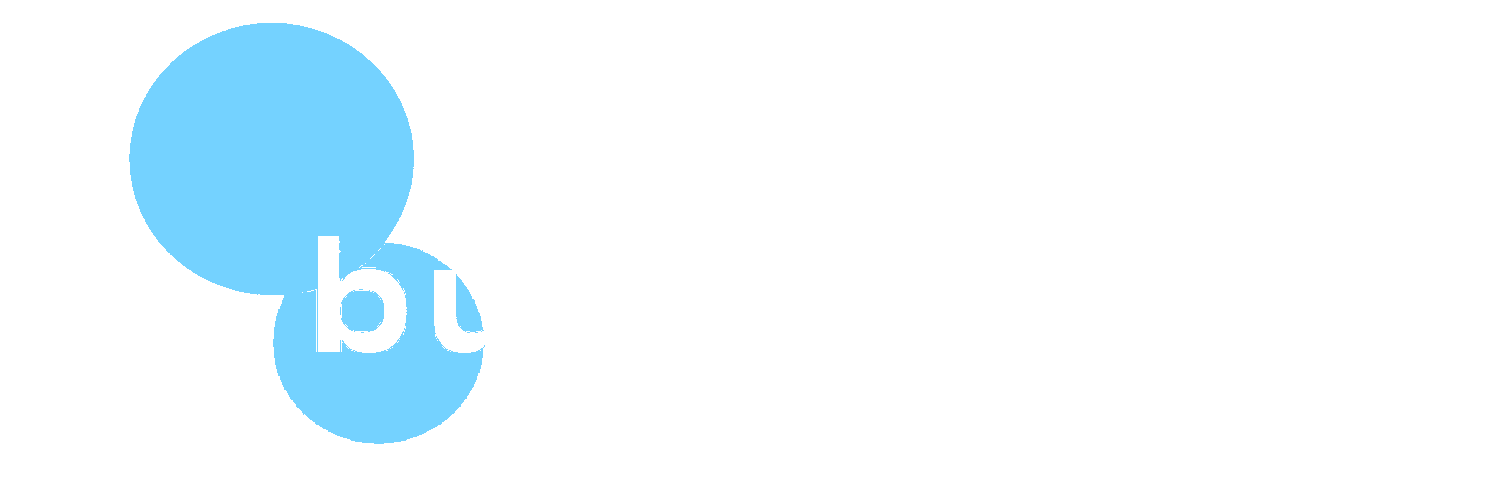
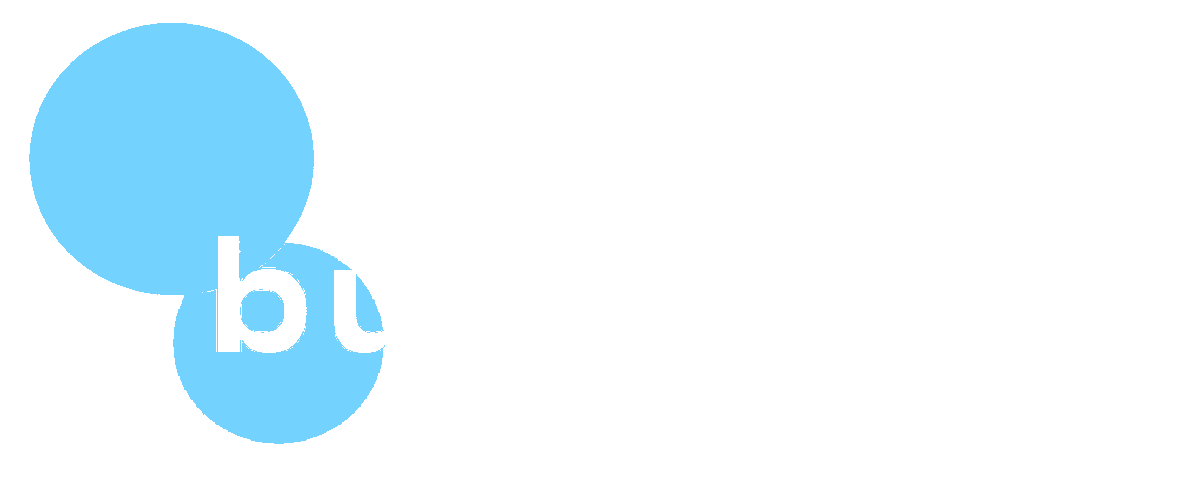
Format the home

Changed region(s): [[0.0, 0.03, 0.3392, 0.9], [0.2775, 0.81, 0.3083, 0.87]]

diff --git a/src/components/organisms/simulations/InvestmentTable.tsx b/src/components/organisms/simulations/InvestmentTable.tsx
@@ -35,8 +35,7 @@ const InvestmentTable: React.FC<Props> = (props) => {
     useSimulationInvestment(props);
   const totalPer = useRecoilValue(SimulationTotalPer);
   const amount = useRecoilValue(SimulationAmount);
-  const isClearable = useBreakpointValue({ base: false, md: true });
-
+  const hiddenBreakpoint = useBreakpointValue({ base: true, md: false });
   return (
     <>
       <Center>
@@ -63,7 +62,7 @@ const InvestmentTable: React.FC<Props> = (props) => {
                         instanceId={`i${('000' + key).slice(-3)}`}
                         name={`i${('000' + key).slice(-3)}`}
                         defaultValue={item.id}
-                        isClearable={isClearable}
+                        isClearable
                         escapeClearsValue
                         menuPosition={'fixed'}
                         options={idOptions}
@@ -79,7 +78,9 @@ const InvestmentTable: React.FC<Props> = (props) => {
                     </Td>
                     <Td>
                       <HStack>
-                        <Button onClick={() => onClickPerButton(key, true)}>+</Button>
+                        <Button  hidden={hiddenBreakpoint} onClick={() => onClickPerButton(key, true)}>
+                          +
+                        </Button>
                         <NumberInput
                           size='sm'
                           w={20}
@@ -93,7 +94,9 @@ const InvestmentTable: React.FC<Props> = (props) => {
                           <NumberInputField />
                         </NumberInput>
                         <Text> %</Text>
-                        <Button onClick={() => onClickPerButton(key, false)}>-</Button>
+                        <Button hidden={hiddenBreakpoint} onClick={() => onClickPerButton(key, false)}>
+                          -
+                        </Button>
                       </HStack>
                     </Td>
                     <Td>{`${((Number(item.per) / 100) * amount * (item.yield_per / 100)).toFixed(
@@ -105,7 +108,9 @@ const InvestmentTable: React.FC<Props> = (props) => {
                   <Td>Other</Td>
                   <Td>
                     <HStack>
-                      <Button isDisabled={true}>+</Button>
+                      <Button  hidden={hiddenBreakpoint} isDisabled={true}>
+                        +
+                      </Button>
                       <NumberInput
                         size='sm'
                         w={20}
@@ -118,7 +123,9 @@ const InvestmentTable: React.FC<Props> = (props) => {
                         <NumberInputField />
                       </NumberInput>
                       <Text> %</Text>
-                      <Button isDisabled={true}>-</Button>
+                      <Button  hidden={hiddenBreakpoint} isDisabled={true}>
+                        -
+                      </Button>
                     </HStack>
                   </Td>
                   <Td>0.0 万円</Td>

diff --git a/src/components/organisms/chart/SimulationChart.tsx b/src/components/organisms/chart/SimulationChart.tsx
@@ -33,11 +33,11 @@ const SimulationChart: React.FC<Props> = (props) => {
       props;
     const sin = Math.sin(-RADIAN * midAngle);
     const cos = Math.cos(-RADIAN * midAngle);
-    const sx = cx + (outerRadius + 10) * cos;
-    const sy = cy + (outerRadius + 10) * sin;
-    const mx = cx + (outerRadius + 30) * cos;
-    const my = cy + (outerRadius + 30) * sin;
-    const ex = mx + (cos >= 0 ? 1 : -1) * 22;
+    const sx = cx + (outerRadius + 3) * cos;
+    const sy = cy + (outerRadius + 3) * sin;
+    const mx = cx + (outerRadius + 10) * cos;
+    const my = cy + (outerRadius + 10) * sin;
+    const ex = mx + (cos >= 0 ? 1 : -1) * 7;
     const ey = my;
     const textAnchor = cos >= 0 ? 'start' : 'end';
     const nameSplit: string[] = payload.name.split(/ |-/g);
@@ -64,8 +64,8 @@ const SimulationChart: React.FC<Props> = (props) => {
           cy={cy}
           startAngle={startAngle}
           endAngle={endAngle}
-          innerRadius={outerRadius + 6}
-          outerRadius={outerRadius + 10}
+          innerRadius={outerRadius + 3}
+          outerRadius={outerRadius + 6}
           fill={fill}
         />
         <path d={`M${sx},${sy}L${mx},${my}L${ex},${ey}`} stroke={fill} fill='none' />
@@ -143,7 +143,7 @@ const SimulationChart: React.FC<Props> = (props) => {
 
   return (
     <Center>
-      <PieChart width={450} height={250}>
+      <PieChart width={350} height={250}>
         <Pie
           activeIndex={activeIndex}
           activeShape={renderActiveShape}

diff --git a/src/pages/index.tsx b/src/pages/index.tsx
@@ -1,4 +1,4 @@
-import { Center, Image } from '@chakra-ui/react';
+import { Center, Img } from '@chakra-ui/react';
 import { Layout, Simulation } from '@src/components/templates';
 import { useAllSymbol } from '@src/hooks/useAllSymbol';
 import { TypeSymbolExplains } from '@src/types';
@@ -14,7 +14,7 @@ const Index: React.FC<Props> = (props) => {
   return (
     <Layout>
       <Center h={'fit-content'} bgColor={'sub3'}>
-        <Image w={700} src='images/logo_transparent.png' />
+        <Img src='images/logo_transparent.png' />
       </Center>
       <Simulation symbols={symbols} />
     </Layout>

diff --git a/src/hooks/useSimulationInvestment.ts b/src/hooks/useSimulationInvestment.ts
@@ -54,8 +54,8 @@ export const useSimulationInvestment = (props: Props) => {
   const onChangePer = (valueString: string, _: any, key: number) => {
     let tmpInvestmentList = [...investmentList];
     const ngRegexp = /\+|\-/;
-    if (ngRegexp.test(valueString) || valueString === '') {
-      tmpInvestmentList[key].per = '0.0';
+    if (ngRegexp.test(valueString) ) {
+      tmpInvestmentList[key].per = '0';
     } else {
       tmpInvestmentList[key].per = valueString;
     }

diff --git a/src/components/atoms/nav/NavLogo.tsx b/src/components/atoms/nav/NavLogo.tsx
@@ -1,4 +1,4 @@
-import { Flex, Image } from '@chakra-ui/react';
+import { Flex, Img } from '@chakra-ui/react';
 import { Link } from '@src/components/atoms';
 import { memo } from 'react';
 
@@ -6,7 +6,7 @@ const NavLogo = () => {
   return (
     <Link href={'/'} style={{ textDecoration: 'none' }} _focus={{ boxShadow: 'none' }}>
       <Flex height='20'>
-        <Image src='/images/header.png' />
+        <Img src='/images/header.png' />
       </Flex>
     </Link>
   );

diff --git a/src/components/molecules/ShareBox.tsx b/src/components/molecules/ShareBox.tsx
@@ -8,12 +8,14 @@ import {
   ShareRoundPocketButton,
   ShareRoundTwitterButton,
 } from '@src/components/atoms';
+import absoluteUrl from 'next-absolute-url';
 import { useRouter } from 'next/router';
 import { memo } from 'react';
 
 const ShareBox = () => {
+  const { origin } = absoluteUrl();
   const router = useRouter();
-  const url = router.asPath;
+  const url = origin + router.asPath;
   const title = process.env.NEXT_PUBLIC_TITLE;
   const size = 48;
   return (

diff --git a/src/components/atoms/share/ShareCopyButton.tsx b/src/components/atoms/share/ShareCopyButton.tsx
@@ -12,6 +12,7 @@ const ShareCopyButton: React.FC<Props> = (props) => {
   const { onCopy } = useClipboard(url);
   const onClickCopy = () => {
     onCopy();
+    console.log(url)
     toast({
       title: 'クリップボードにコピーしました',
       status: 'success',

diff --git a/src/components/molecules/simulations/SimulationTable.tsx b/src/components/molecules/simulations/SimulationTable.tsx
@@ -12,7 +12,7 @@ const SimulationTable: React.FC<Props> = (props) => {
   const { items, caption } = props;
 
   return (
-    <Box w={{ base: 'md', md: 'xl' }}>
+    <Box w={{ base: 'xs', md: 'xl' }}>
       {items.length ? (
         <>
           <TocH3>{caption}</TocH3>

diff --git a/src/components/atoms/button/HeaderIconButton.tsx b/src/components/atoms/button/HeaderIconButton.tsx
@@ -34,7 +34,7 @@ const SButton: React.FC<ButtonProps> = (props) => {
         bg: 'sub3',
         color: 'white',
       }}
-      size='lg'
+      size={{ base: 'md', md: 'lg' }}
       variant='ghost'
       {...props}
     />

diff --git a/src/components/organisms/layouts/Header.tsx b/src/components/organisms/layouts/Header.tsx
@@ -40,7 +40,6 @@ const SFlex: React.FC<FlexProps> = (props) => {
       borderBottomColor={'borderAccent1'}
       minWidth='max-content'
       alignItems='center'
-      gap='2'
       {...props}
     />
   );
